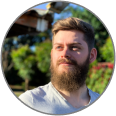
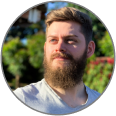
Update links and profile picture

diff --git a/index.html b/index.html
@@ -24,18 +24,18 @@
       <span></span>
     </div>
     <ul id="main-links">
-      <li><a href="#" target="_blank">Portfolio</a></li>
-      <li><a href="#" target="_blank">Blog</a></li>
+      <li><a href="https://danilodesousa.com.br/" target="_blank">Portfolio</a></li>
+      <li><a href="https://danilodesousa.com.br/blog" target="_blank">Blog</a></li>
     </ul>
     <div id="social-links">
       <div>
-        <a href="#" target="_blank"><i class="bi bi-github"></i></a>
+        <a href="https://github.com/danilocdesousa" target="_blank"><i class="bi bi-github"></i></a>
       </div>
       <div>
-        <a href="#" target="_blank"><i class="bi bi-linkedin"></i></a>
+        <a href="https://www.linkedin.com/in/danilocdesousa/" target="_blank"><i class="bi bi-linkedin"></i></a>
       </div>
       <div>
-        <a href="#" target="_blank"><i class="bi bi-twitter"></i></a>
+        <a href="https://twitter.com/danilodesousa_" target="_blank"><i class="bi bi-twitter"></i></a>
       </div>
     </div>
     <footer>
